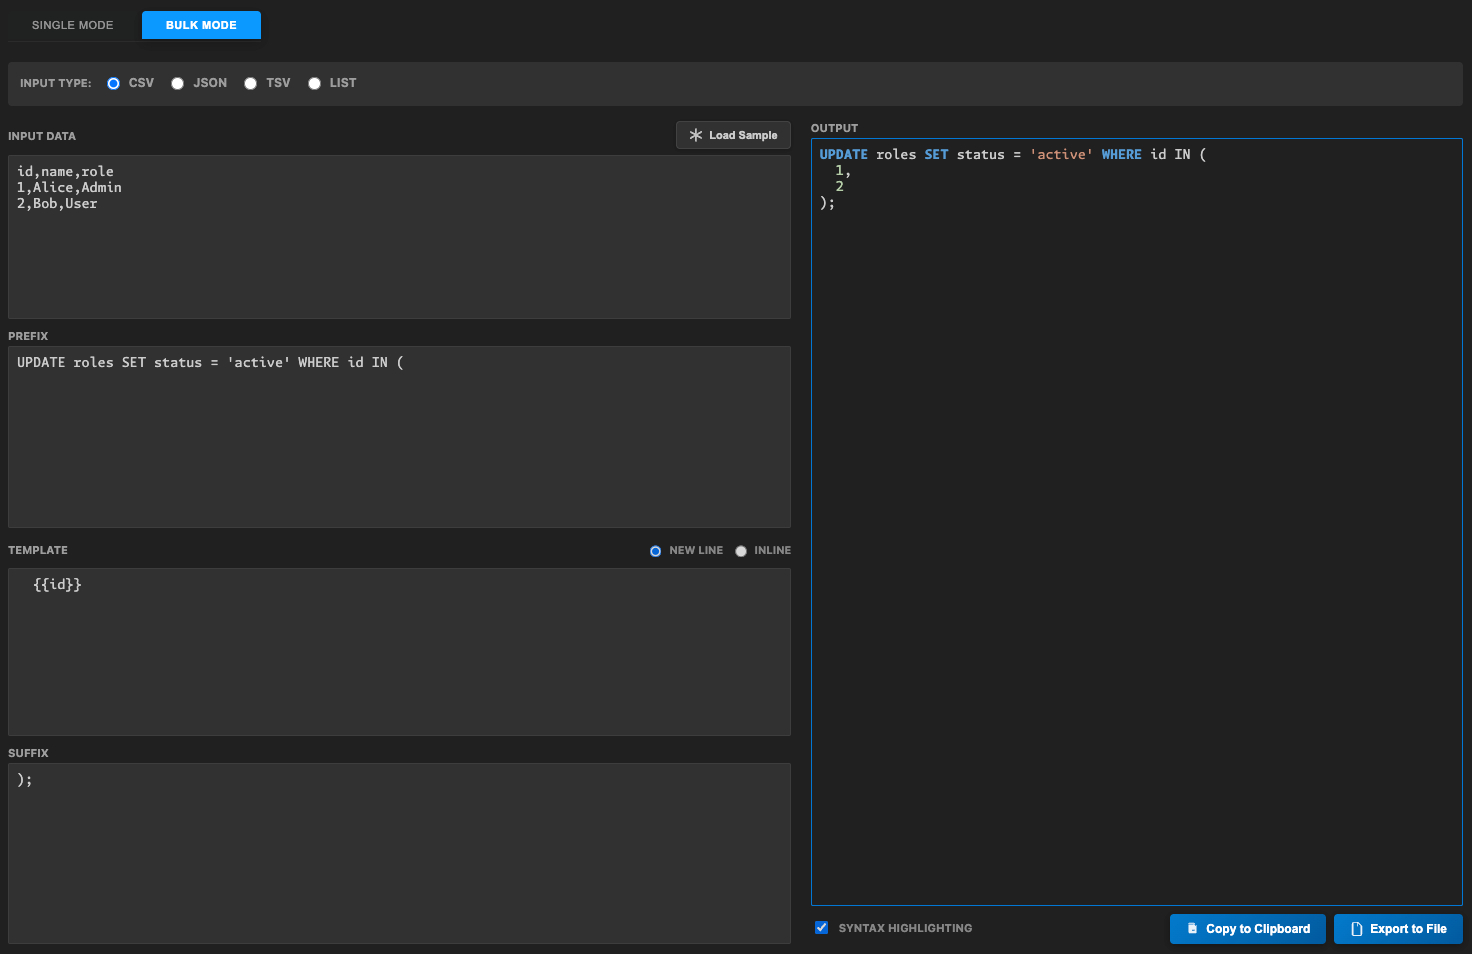
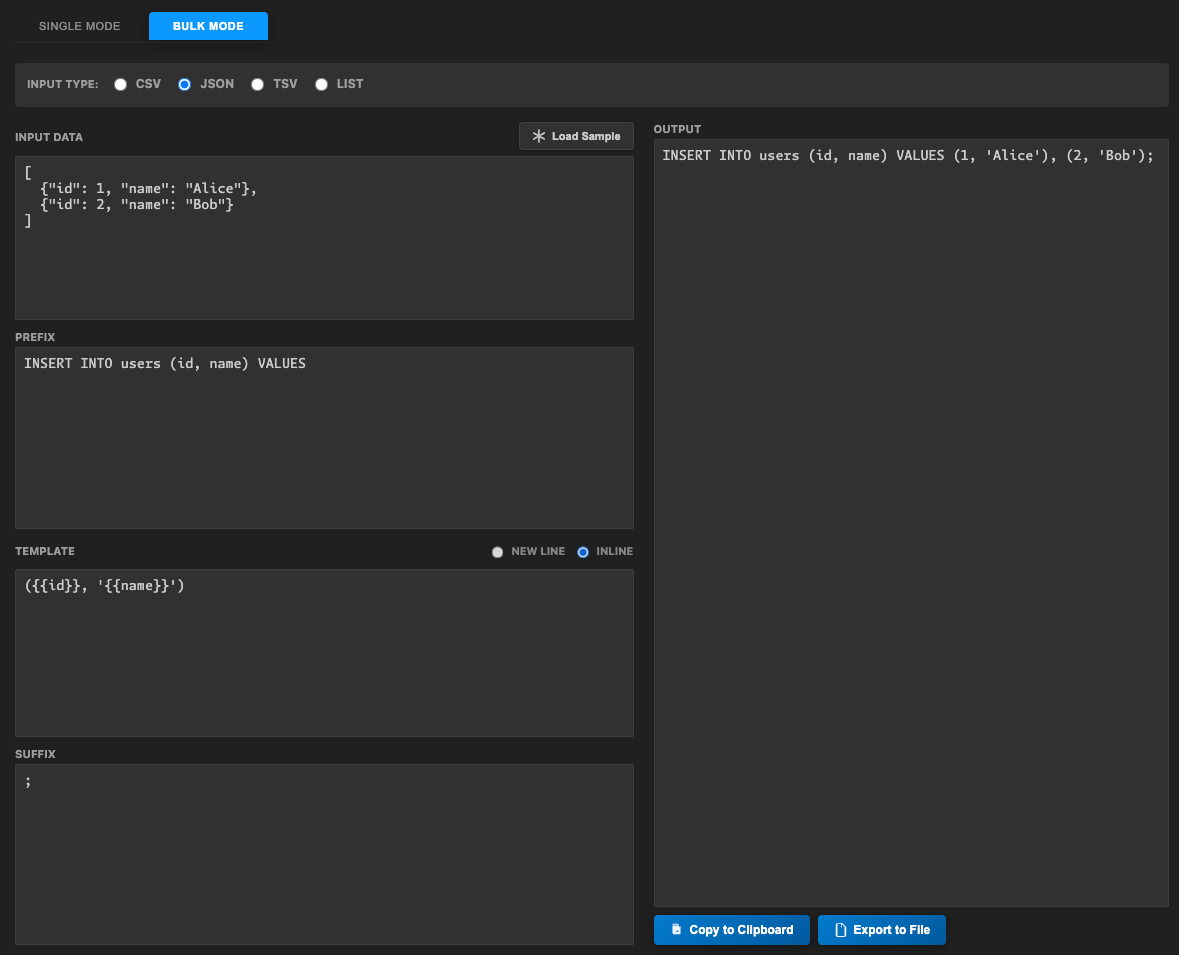
Fix/remove syntax highlight (#7)
* fix: remove syntax highlight

* fix: update screenshots for bulk and single mode

diff --git a/src/webview/main.ts b/src/webview/main.ts
@@ -10,7 +10,6 @@ interface AppState {
   bulkTemplate: string;
   bulkSuffix: string;
   output: string;
-  enableHighlighting: boolean;
   bulkJoinInline: boolean;
 }
 
@@ -28,7 +27,6 @@ class App {
     bulkTemplate: '',
     bulkSuffix: '',
     output: '',
-    enableHighlighting: true,
     bulkJoinInline: true,
   };
 
@@ -61,7 +59,6 @@ class App {
   private setState(newState: Partial<AppState>) {
     const prevMode = this.state.mode;
     const prevType = this.state.inputType;
-    const prevHighlight = this.state.enableHighlighting;
     const prevBulkJoin = this.state.bulkJoinInline;
 
     this.state = { ...this.state, ...newState };
@@ -70,7 +67,6 @@ class App {
 
     if (this.state.mode !== prevMode ||
       this.state.inputType !== prevType ||
-      this.state.enableHighlighting !== prevHighlight ||
       this.state.bulkJoinInline !== prevBulkJoin) {
       this.render();
     } else {
@@ -172,13 +168,6 @@ class App {
     if (outputArea) {
       outputArea.value = this.state.output;
     }
-
-    if (this.state.enableHighlighting) {
-      const overlay = document.getElementById('highlight-overlay');
-      if (overlay) {
-        overlay.innerHTML = this.highlight(this.state.output);
-      }
-    }
   }
 
   private parseInput(input: string): any[] {
@@ -228,44 +217,6 @@ class App {
     });
   }
 
-  private highlight(text: string): string {
-    if (!text) {
-      return '';
-    }
-
-    // 1. Escape HTML
-    let html = text
-      .replace(/&/g, '&amp;')
-      .replace(/</g, '&lt;')
-      .replace(/>/g, '&gt;');
-
-    // 2. Highlighting using placeholders to prevent double-processing
-    const tokens: string[] = [];
-    const addToken = (str: string, className: string) => {
-      const id = `__TOKEN_${tokens.length}__`;
-      tokens.push(`<span class="${className}">${str}</span>`);
-      return id;
-    };
-
-    // Strings (handle these first to avoid matching keywords inside them)
-    html = html.replace(/'([^']*)'/g, (_, p1) => addToken(`'${p1}'`, 'hl-string'));
-    html = html.replace(/"([^"]*)"/g, (_, p1) => addToken(`"${p1}"`, 'hl-string'));
-
-    // Keywords
-    const keywords = /\b(INSERT|INTO|VALUES|SELECT|FROM|WHERE|UPDATE|DELETE|SET|TABLE|CREATE|DROP|ALTER|AND|OR|NOT|NULL|TRUE|FALSE|curl|POST|GET|PUT|PATCH|DELETE|headers|authorization|bearer)\b/gi;
-    html = html.replace(keywords, (match) => addToken(match, 'hl-keyword'));
-
-    // Numbers
-    html = html.replace(/\b(\d+)\b/g, (match) => addToken(match, 'hl-number'));
-
-    // 3. Restore tokens
-    tokens.forEach((token, i) => {
-      html = html.replace(`__TOKEN_${i}__`, token);
-    });
-
-    return html;
-  }
-
   private render() {
     const app = document.getElementById('app');
     if (!app) {
@@ -273,7 +224,7 @@ class App {
     }
 
     app.innerHTML = `
-      <div class="container ${this.state.mode} ${this.state.enableHighlighting ? 'show-highlight' : ''}">
+      <div class="container ${this.state.mode}">
         <div class="header-row">
           <div class="toolbar">
             <button class="tab-btn ${this.state.mode === 'single' ? 'active' : ''}" id="btn-single">Single Mode</button>
@@ -346,13 +297,8 @@ class App {
               <label>Output</label>
               <div class="output-container">
                 <textarea id="output-data" readonly>${this.state.output}</textarea>
-                <div id="highlight-overlay" class="highlight-overlay">${this.highlight(this.state.output)}</div>
               </div>
               <div class="highlight-controls">
-                <label class="highlight-toggle">
-                  <input type="checkbox" id="check-highlight" ${this.state.enableHighlighting ? 'checked' : ''}>
-                  Syntax Highlighting
-                </label>
                 <div class="button-group">
                   <button id="btn-copy" class="primary-btn">
                     <span class="icon">
@@ -396,10 +342,6 @@ class App {
 
     document.getElementById('list-separator')?.addEventListener('input', (e) => {
       this.setState({ listSeparator: (e.target as HTMLInputElement).value });
-    });
-
-    document.getElementById('check-highlight')?.addEventListener('change', (e) => {
-      this.setState({ enableHighlighting: (e.target as HTMLInputElement).checked });
     });
 
     const setupInputListener = (id: string, key: keyof AppState) => {

diff --git a/README.md b/README.md
@@ -26,10 +26,8 @@ Transform your data into actionable operations instantly. **Bulk Ops Generator**
 
 ### 🎨 Editing Experience
 - **Real-time Preview**: See your output instantly as you type.
-- **Syntax Highlighting**: Built-in highlighting for SQL keywords, JSON keys, Strings, and more.
-- **Smart Configurations**:
-    - **Join Type**: Choose between "New Line" or "Inline" for your bulk operations.
-    - **Template Tags**: Use `{{column_name}}` to map your data fields dynamically.
+- **Join Type**: Choose between "New Line" or "Inline" for your bulk operations.
+- **Template Tags**: Use `{{column_name}}` to map your data fields dynamically.
 - **Sample Data**: One-click sample loader to help you get started with any input type.
 
 ## How to Use
